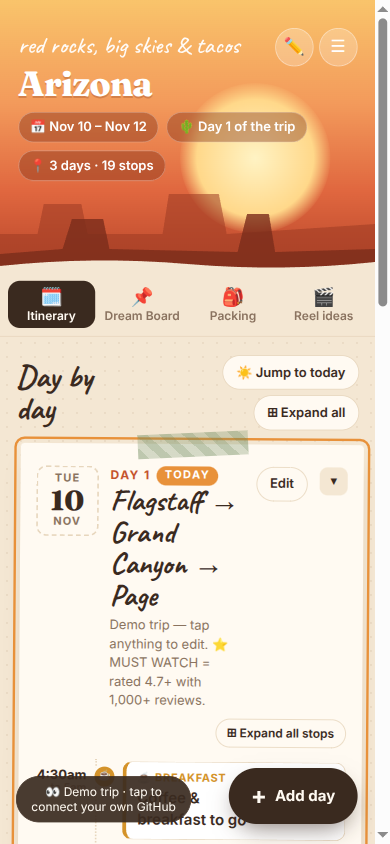
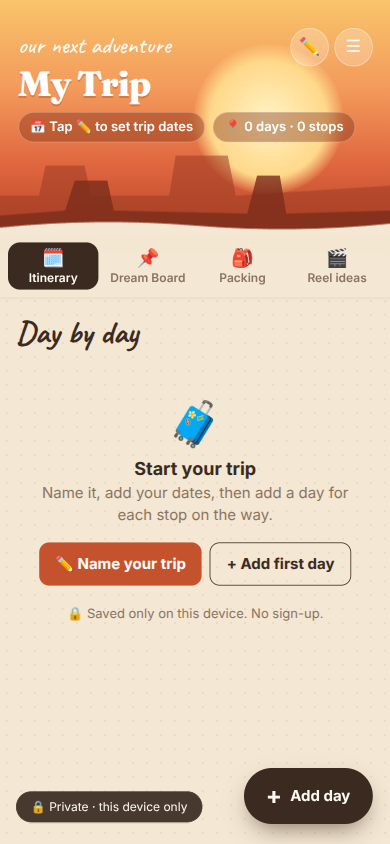
Blank private-by-default start for new visitors; README update

diff --git a/index.html b/index.html
@@ -4,7 +4,7 @@
 <meta charset="utf-8">
 <meta name="viewport" content="width=device-width,initial-scale=1,viewport-fit=cover">
 <meta name="theme-color" content="#e8763f">
-<title>Arizona Scrapbook</title>
+<title>Trip Scrapbook</title>
 <link rel="preconnect" href="https://fonts.googleapis.com">
 <link href="https://fonts.googleapis.com/css2?family=Caveat:wght@500;700&family=Fraunces:opsz,wght@9..144,500;9..144,800&family=Inter:wght@400;500;600;700&display=swap" rel="stylesheet">
 <style>
@@ -204,6 +204,7 @@ main{max-width:760px;margin:0 auto;padding:18px 16px}
 .lb .cap{position:absolute;bottom:18px;color:#fff;font-family:var(--hand);font-size:24px}
 .empty{text-align:center;padding:30px 10px;color:var(--muted)}
 .empty .big{font-size:44px}
+.empty.start b{font-size:18px;color:var(--ink)}.start-btns{display:flex;gap:8px;justify-content:center;margin:16px 0 10px;flex-wrap:wrap}.btn.ghost{background:transparent;color:var(--ink);border:1.5px solid var(--ink)}
 .toast{position:fixed;left:50%;bottom:90px;transform:translateX(-50%);background:var(--ink);color:#fff;padding:9px 16px;border-radius:999px;font-size:13px;z-index:70;opacity:0;transition:opacity .2s;pointer-events:none}
 .toast.on{opacity:1}
 .savebar{position:fixed;top:10px;right:10px;z-index:80;background:var(--paper);color:var(--muted);border:1px solid var(--line);padding:4px 11px;border-radius:999px;font:12px var(--sans);opacity:.9}
@@ -212,8 +213,9 @@ main{max-width:760px;margin:0 auto;padding:18px 16px}
 .savebar.wait{color:#8a5a00;background:#fff3d6;border-color:#f0d9a8}
 .savebar.auth{cursor:pointer}
 .savebar.copy{left:10px;text-align:center;background:#b3261e;color:#fff;border-color:#b3261e;border-radius:12px;padding:10px 14px;font-size:14px;opacity:1}
-.savebar.auth{top:auto;bottom:22px;left:16px;right:auto;max-width:calc(100% - 200px);text-align:center;background:var(--ink);color:var(--paper);border-color:var(--ink);padding:7px 14px;font-size:12px;opacity:.92}
+.savebar.auth,.savebar.local{top:auto;bottom:22px;left:16px;right:auto;max-width:calc(100% - 200px);text-align:center;background:var(--ink);color:var(--paper);border-color:var(--ink);padding:7px 14px;font-size:12px;opacity:.92}
 .savebar.copy{background:var(--ink);border-color:var(--ink)}
+.scrim.on ~ .savebar{display:none}
 </style>
 </head>
 <body>
@@ -225,8 +227,8 @@ main{max-width:760px;margin:0 auto;padding:18px 16px}
       <button class="icon-btn" data-act="edit-trip" title="Edit trip">✏</button>
       <button class="icon-btn" data-act="menu" title="Menu">☰</button>
     </div>
-    <p class="kicker" id="hTravelers">our little desert adventure</p>
-    <h1 id="hTitle">Arizona</h1>
+    <p class="kicker" id="hTravelers">our next adventure</p>
+    <h1 id="hTitle">My Trip</h1>
     <div class="hero-meta" id="hMeta"></div>
   </div>
   <svg viewBox="0 0 1200 110" preserveAspectRatio="none" aria-hidden="true">
@@ -324,18 +326,19 @@ function saveStatus(state) {
     saving: 'Saving…',
     ok: 'Synced ✓',
     wait: '📴 Offline — saved on this device, will sync when back online',
-    auth: '👀 Demo trip · tap to connect your own GitHub',
+    local: '🔒 Private · this device only',
+    auth: '⚠ Sync stopped · tap to fix the GitHub token',
     copy: '📦 Offline copy — edits stay on this device (use Export to keep them)',
   }[state];
 }
-$('#savebar').onclick = () => { if ($('#savebar').classList.contains('auth')) askToken(); };
+$('#savebar').onclick = () => { const c = $('#savebar').classList; if (c.contains('auth')) askToken(); else if (c.contains('local')) openPrivacy(); };
 
 const b64enc = bytes => { let s = ''; for (let i = 0; i < bytes.length; i += 0x8000) s += String.fromCharCode(...bytes.subarray(i, i + 0x8000)); return btoa(s); };
 const b64dec = s => Uint8Array.from(atob(s.replace(/\s/g, '')), c => c.charCodeAt(0));
 const toDataURL = blob => new Promise(res => { const fr = new FileReader(); fr.onload = () => res(fr.result); fr.readAsDataURL(blob); });
 const allItems = d => [...d.days.flatMap(x => x.items), ...(d.board || []), ...(d.reels || [])];
 const norm = d => {
-  d.board ||= []; d.packing ||= []; d.reels ||= []; d.trip ||= {title: 'Arizona'};
+  d.board ||= []; d.packing ||= []; d.reels ||= []; d.trip ||= {title: ''};
   // packing lists per person; older data had one flat list, which becomes the Shared list
   if (!Array.isArray(d.packLists) || !d.packLists.length) d.packLists = [{id: 'shared', name: 'Shared', items: JSON.parse(JSON.stringify(d.packing))}];
   return d;
@@ -437,7 +440,7 @@ function save() {
     const v = ver;
     try { await idb.set(KEY, S); cachedVer = v; } catch (e) { toast('⚠ Could not save on this device — Export a backup!'); }
     if (OFFLINE) return;
-    if (!token) return saveStatus('auth');
+    if (!token) return saveStatus('local');
     flush();
   }, 1500);
 }
@@ -457,7 +460,7 @@ async function load() {
   // a stuck browser database must never keep the scrapbook from opening
   try { local = await Promise.race([idb.get(KEY), new Promise(res => setTimeout(res, 3000))]); } catch (e) {}
   if (OFFLINE) { saveStatus('copy'); return local?.savedAt > (OFFLINE.savedAt || 0) ? local : OFFLINE; }
-  if (!token) { saveStatus('auth'); return local || seed(); }  // visitors get the demo; the bar offers to connect
+  if (!token) { saveStatus('local'); return local || seed(); }  // no account: the trip lives only in this browser
   try {
     const remote = await pullRemote();
     sha = remote.sha;
@@ -490,7 +493,7 @@ async function downloadOfflineCopy() {
   const src = await (await fetch(location.href.split('#')[0])).text();
   const data = JSON.stringify(await withInlinePhotos()).replace(/</g, '\\u003c');
   const html = src.replace('<script>', () => `<script>window.OFFLINE_SCRAPBOOK = ${data};<\/script>\n<script>`);
-  const a = Object.assign(document.createElement('a'), {href: URL.createObjectURL(new Blob([html], {type: 'text/html'})), download: `arizona-scrapbook-offline-${todayISO()}.html`});
+  const a = Object.assign(document.createElement('a'), {href: URL.createObjectURL(new Blob([html], {type: 'text/html'})), download: `trip-scrapbook-offline-${todayISO()}.html`});
   document.body.appendChild(a); a.click(); a.remove(); toast('Offline copy downloaded');
 }
 if ('serviceWorker' in navigator && location.protocol === 'https:') navigator.serviceWorker.register('sw.js').catch(() => {});
@@ -498,57 +501,23 @@ if ('serviceWorker' in navigator && location.protocol === 'https:') navigator.se
 function item(type, start, title, extra = {}) {
   return {id: uid(), type, start, end: '', title, place: '', conf: '', link: '', notes: '', photos: [], done: false, ...extra};
 }
-// demo trip shown to visitors who haven't connected their own GitHub (no personal data); dates start today
+// a new visitor starts with a blank scrapbook that lives only on their device
 function seed() {
-  const day = n => { const d = new Date(); d.setDate(d.getDate() + n); return new Date(d - d.getTimezoneOffset()*6e4).toISOString().slice(0,10); };
-  const M = q => 'https://www.google.com/maps/search/?api=1&query=' + encodeURIComponent(q);
-  const MW = '⭐ MUST WATCH: ', OP = 'OPTIONAL: ';
-  const P = (cat, list) => list.map(t => ({id: uid(), text: `${cat} · ${t}`, done: false}));
   return {
-    trip: {title: 'Arizona', sub: 'red rocks, big skies & tacos', start: day(0), end: day(2)},
-    days: [
-      {id: uid(), date: day(0), title: 'Flagstaff → Grand Canyon → Page', notes: 'Demo trip — tap anything to edit. ⭐ MUST WATCH = rated 4.7+ with 1,000+ reviews.', items: [
-        item('breakfast', '04:30', 'Coffee & breakfast to go', {end: '05:00', notes: 'Pack gloves, layers, 2L water each, microspikes.'}),
-        item('drive', '05:00', 'Drive: Flagstaff → South Rim', {end: '06:30', notes: '79 mi, ~1 hr 30. Gas up in Tusayan.', link: M('Grand Canyon Visitor Center')}),
-        item('photo', '06:30', MW + 'Sunrise at Mather Point', {end: '07:30', link: M('Mather Point Grand Canyon'), notes: '🥾 Walk/hike: 0.2 mi paved, ~5 min each way\n🎟 Fee/permit: $35/car park entry (7 days)\n📊 Evidence: Google 4.8 (13,334); NPS recommends it for sunrise'}),
-        item('hike', '08:00', MW + 'South Kaibab to Ooh Aah Point', {end: '10:15', link: M('Ooh Aah Point Grand Canyon'), notes: '🥾 Walk/hike: 1.8 mi round trip, ~700 ft, ~1.5–2 hrs\n🎟 Fee/permit: none for day hikes\nUpper switchbacks can be icy in winter — wear microspikes.'}),
-        item('lunch', '11:30', 'Lunch at Market Plaza deli', {end: '12:15'}),
-        item('visit', '12:30', OP + 'Lookout & Kolb Studios', {end: '13:15', link: M('Lookout Studio Grand Canyon'), notes: '🥾 Flat paved rim walk\n📊 Evidence: Google 4.7 (365 / 460) — fewer reviews, so optional'}),
-        item('visit', '13:55', MW + 'Desert View Watchtower', {end: '14:45', link: M('Desert View Watchtower'), notes: '🥾 0.25 mi paved + tower stairs\n📊 Evidence: Google 4.8 (13,915)'}),
-        item('drive', '14:45', 'Drive to Page — arrive before dark', {end: '17:05', notes: 'Fill the tank in Cameron. Watch for livestock on the road.'}),
-      ]},
-      {id: uid(), date: day(1), title: 'Page, AZ', notes: '', items: [
-        item('photo', '06:30', MW + 'Sunrise at Wahweap Overlook', {end: '07:30', link: M('Wahweap Overlook Page AZ'), notes: '📊 Evidence: Google 4.7 (2,023)'}),
-        item('visit', '09:45', MW + 'Lower Antelope Canyon tour', {end: '11:15', conf: 'Tour ticket #', link: M('Lower Antelope Canyon'), notes: '🥾 ~1 mi with steep metal stairs\n🎟 Fee/permit: guided tour ticket required\n📊 Evidence: Google 4.8 (5,929)'}),
-        item('lunch', '11:30', 'Lunch in Page', {end: '12:45'}),
-        item('hike', '13:00', OP + 'The New Wave & Beehive Trail', {end: '14:00', link: M('Beehive Trailhead Page AZ'), notes: '📊 Evidence: Google 4.8 but only 51 reviews'}),
-        item('stay', '14:15', 'Hotel rest', {end: '15:45'}),
-        item('photo', '16:00', MW + 'Horseshoe Bend sunset', {end: '17:45', link: M('Horseshoe Bend Page AZ'), notes: '🥾 1.5 mi round trip, wide graded path\n🎟 $10 parking\n📊 Evidence: Google 4.8 (22,276); 831,631 NPS-counted visits in 2024'}),
-        item('dinner', '19:15', 'Dinner in Page', {end: '20:30'}),
-      ]},
-      {id: uid(), date: day(2), title: 'Hoodoos & the Colorado River', notes: '', items: [
-        item('breakfast', '07:45', 'Breakfast in Page', {end: '08:30'}),
-        item('hike', '09:35', MW + 'Toadstool Hoodoos', {end: '10:50', link: M('Toadstool Hoodoos Trailhead'), notes: '🥾 1.8 mi round trip, flat sandy wash\n🎟 Free, no permit\n📊 Evidence: AllTrails 4.7 (6,922)'}),
-        item('visit', '12:00', OP + 'Navajo Bridge & condors', {end: '12:20', link: M('Navajo Bridge Interpretive Center')}),
-        item('hike', '14:00', MW + 'Cathedral Wash', {end: '16:00', link: M('Cathedral Wash Trailhead'), notes: '🥾 3.3 mi round trip, hard — scrambling + a 30 ft downclimb\nSkip if rain is forecast.\n📊 Evidence: AllTrails 4.8 (~2,800)'}),
-      ]},
-    ],
-    board: [
-      item('photo', '', 'Horseshoe Bend', {place: 'Horseshoe Bend, Page AZ', notes: 'Best light: late afternoon'}),
-      item('ticket', '', 'Antelope Canyon', {place: 'Antelope Canyon, Page AZ', notes: 'Guided tour only — book ahead!'}),
-      item('visit', '', 'Desert View Watchtower', {place: 'Desert View Watchtower, Grand Canyon'}),
-    ],
-    packing: [],
-    packLists: [
-      {id: 'me', name: 'Me', items: [...P('🧥 Clothing', ['Puffer jacket (sunrise at the rim is ~freezing)', 'Beanie + gloves', 'Hiking pants']),
-                                     ...P('👟 Footwear', ['Hiking shoes (grippy soles for slickrock)']), ...P('💊 Toiletries', ['Lip balm', 'Meds'])]},
-      {id: 'partner', name: 'Partner', items: [...P('🧥 Clothing', ['Puffer jacket', 'Fleece', 'Wool socks (1 pair per day)']),
-                                     ...P('👟 Footwear', ['Hiking shoes']), ...P('💊 Toiletries', ['Lip balm'])]},
-      {id: 'shared', name: 'Shared', items: [...P('🥾 Hiking', ['Microspikes (icy switchbacks)', 'Headlamps (4:30 AM start)', 'First-aid kit']),
-                                     ...P('📱 Electronics', ['Offline Google Maps for the whole route', 'Car charger + phone mount']), ...P('🚗 Car', ['Gallon of water in the car'])]},
-    ],
-    reels: [],
+    trip: {title: '', sub: '', start: '', end: ''},
+    days: [], board: [], packing: [], reels: [],
+    packLists: [{id: 'me', name: 'Me', items: []}, {id: 'partner', name: 'Partner', items: []}, {id: 'shared', name: 'Shared', items: []}],
   };
+}
+function openPrivacy() {
+  openSheet(`<div class="sheet-head"><h3>🔒 Your trip is private</h3><button class="icon-btn" style="background:var(--sand)" data-act="close">✕</button></div>
+    <p class="hint">Everything you add is saved <b>only in this browser on this device</b>. There's no account and no server, and nothing is sent anywhere. Not even the person who made this page can see it.</p>
+    <p class="hint">Because it lives on this device, clearing your browser data deletes it. Export a backup now and then, and use the same file to move your trip to another phone.</p>
+    <div class="menu-list">
+      <button data-act="export">💾 Export backup</button>
+      <button data-act="import">📂 Import backup</button>
+      <button data-act="token">🔗 Sync across devices (advanced)</button>
+    </div>`);
 }
 
 /* ---------- render ---------- */
@@ -556,9 +525,9 @@ let S, view = 'days';
 
 function renderHero() {
   const t = S.trip;
-  $('#hTitle').textContent = t.title || 'Arizona';
-  $('#hTravelers').textContent = t.sub || 'our little desert adventure';
-  document.title = (t.title || 'Arizona') + ' Scrapbook';
+  $('#hTitle').textContent = t.title || 'My Trip';
+  $('#hTravelers').textContent = t.sub || 'our next adventure';
+  document.title = (t.title || 'Trip') + ' Scrapbook';
   const chips = [];
   if (t.start) {
     const s = parseDate(t.start), e = parseDate(t.end || t.start), now = parseDate(todayISO());
@@ -638,7 +607,9 @@ function renderDays() {
   const tools = (hasToday ? '<button class="pill" data-act="jump-today">☀ Jump to today</button>' : '')
     + (S.days.length ? `<button class="pill" data-act="fold-all">${allOpen() ? '⊟ Collapse all' : '⊞ Expand all'}</button>` : '');
   let html = `<div class="toolbar"><h2>Day by day</h2><div class="tools">${tools}</div></div>`;
-  if (!S.days.length) html += `<div class="empty"><div class="big">🌵</div>No days yet — tap <b>+ Add day</b> to start your scrapbook.</div>`;
+  if (!S.days.length) html += `<div class="empty start"><div class="big">🧳</div><b>Start your trip</b><br>Name it, add your dates, then add a day for each stop on the way.
+    <div class="start-btns"><button class="btn" data-act="edit-trip">✏ Name your trip</button><button class="btn ghost" data-act="fab">+ Add first day</button></div>
+    <p class="mini">🔒 Saved only on this device. No sign-up.</p></div>`;
   S.days.forEach((d, idx) => {
     const dt = parseDate(d.date), items = [...d.items].sort(byTime);
     const nextId = nextIdOf(d), open = dayOpen(d);
@@ -882,10 +853,10 @@ function openMenu() {
       <button data-act="export">💾 Export backup (includes photos)</button>
       <button data-act="import">📂 Import backup</button>
       <button data-act="clear-done">🧹 Un-check all done items</button>
-      ${OFFLINE ? '' : '<button data-act="token">🔑 Change GitHub token</button>'}
+      ${OFFLINE ? '' : `<button data-act="token">${token ? '🔑 Change GitHub token' : '🔗 Sync across devices (advanced)'}</button>`}
       <button data-act="reset" style="color:#b3261e">🗑 Start fresh (erase everything)</button>
     </div>
-    <p class="hint">${OFFLINE ? 'This is an offline copy: edits stay on this device. Export a backup and import it into the online scrapbook to keep them.' : `Saved to your private GitHub repo ${REPO} — every change is in its history.`}</p>`);
+    <p class="hint">${OFFLINE ? 'This is an offline copy: edits stay on this device. Export a backup and import it into the online scrapbook to keep them.' : (token ? `Saved to your private GitHub repo ${REPO} — every change is in its history.` : '🔒 Saved only in this browser on this device. Nothing is sent anywhere. Export a backup to keep it safe or move it to another phone.')}</p>`);
 }
 
 /* ---------- lightbox ---------- */
@@ -977,14 +948,14 @@ document.addEventListener('click', e => {
     case 'token': askToken(); break;
     case 'export': (async () => {
       const blob = new Blob([JSON.stringify(await withInlinePhotos())], {type: 'application/json'});
-      const a2 = Object.assign(document.createElement('a'), {href: URL.createObjectURL(blob), download: `arizona-scrapbook-${todayISO()}.json`});
+      const a2 = Object.assign(document.createElement('a'), {href: URL.createObjectURL(blob), download: `trip-scrapbook-${todayISO()}.json`});
       document.body.appendChild(a2); a2.click(); a2.remove(); toast('Backup downloaded');
     })(); break;
     case 'import': $('#importFile').click(); break;
     case 'clear-done': S.days.forEach(d => d.items.forEach(i => i.done = false)); save(); closeSheet(); render(); break;
     case 'reset':
       if (confirm('Erase the whole scrapbook? (Export a backup first if unsure)')) {
-        S = norm({trip: {title: 'Arizona', sub: '', start: '', end: ''}, days: [], board: [], packing: [], reels: []}); save(); closeSheet(); render();
+        S = norm({trip: {title: '', sub: '', start: '', end: ''}, days: [], board: [], packing: [], reels: []}); save(); closeSheet(); render();
       }
       break;
   }

diff --git a/README.md b/README.md
@@ -1,13 +1,13 @@
 # 🌵 Trip Scrapbook
 
-A phone-first trip planner that feels like a scrapbook. One HTML file, no app store, no account, no server. Your trip is saved in your own private GitHub repo and syncs across every phone and laptop.
+A phone-first trip planner that feels like a scrapbook. **Your trip stays on your phone. No account, no app. Sync is optional.**
 
-**[▶ Try the live demo](https://nidhicj.github.io/arizona-scrapbook/)** (opens a sample Arizona trip; edits stay in your browser)
+**[▶ Start your trip](https://nidhicj.github.io/arizona-scrapbook/)** (opens a blank scrapbook that's private to your device)
 
 <p>
-  <img src="docs/1-home.png" width="240" alt="Itinerary overview">
-  <img src="docs/2-day.png" width="240" alt="A day's timeline with MUST WATCH stops">
-  <img src="docs/3-packing.png" width="240" alt="Per-person packing lists">
+  <img src="docs/1-home.png" width="240" alt="A blank scrapbook, ready for your trip">
+  <img src="docs/2-day.png" width="240" alt="A filled-in day with MUST WATCH stops">
+  <img src="docs/3-private.png" width="240" alt="Your trip is private to your device">
 </p>
 
 ## What it does
@@ -18,22 +18,27 @@ A phone-first trip planner that feels like a scrapbook. One HTML file, no app st
 - **⭐ MUST WATCH vs OPTIONAL.** Tag stops so you know what to skip when you're running late.
 - **Packing lists per person.** Separate lists for each traveller plus a shared one, with editable categories.
 - **Dream board & reel ideas.** Pin places you want to see and shots you want to film.
+- **Private by default.** Your trip is saved only in your browser. Nothing is sent anywhere, so not even I can see it.
 - **Works offline.** The page is cached on your phone, so it still opens with no signal.
-- **Syncs across devices.** Every save is a commit to your private repo, so your history is never lost.
+- **Backup & move.** Export your trip to a file and import it on another phone.
+- **Optional sync.** Want two phones always in sync? Connect your own private GitHub repo (below).
 
 ## Use it for your own trip
+
+Just open the link and start adding days. That's it.
+
+### Optional: sync across phones (advanced)
 
 1. Fork this repo and turn on **GitHub Pages** (Settings → Pages → deploy from `main`).
 2. Create a **private** repo for your data, e.g. `your-name/my-trip-data`.
 3. In `index.html`, change `const REPO = '…'` to your data repo.
 4. Create a [fine-grained token](https://github.com/settings/personal-access-tokens/new) with access to **only** that data repo and **Contents: Read and write**.
-5. Open your Pages URL on each phone, tap the "connect" pill and paste the token once per device.
+5. Open your Pages URL on each phone, go to ☰ → **Sync across devices** and paste the token once per device. Every save becomes a commit in your private repo.
 
 ## How it's built
 
 - A single `index.html` (vanilla JS + CSS, no build step, no framework).
-- Data lives in a private repo, read and written through the GitHub Contents API.
+- Your trip lives in the browser (IndexedDB). With sync on, it's also saved to your private repo through the GitHub Contents API.
 - `sw.js` is a tiny network-first service worker for offline use.
-- Browser storage (IndexedDB) keeps a local copy so nothing is lost when you're offline.
 
 Built as a side project for a real road trip through Sedona, the Grand Canyon and Page, AZ, with a lot of help from an AI pair programmer.
